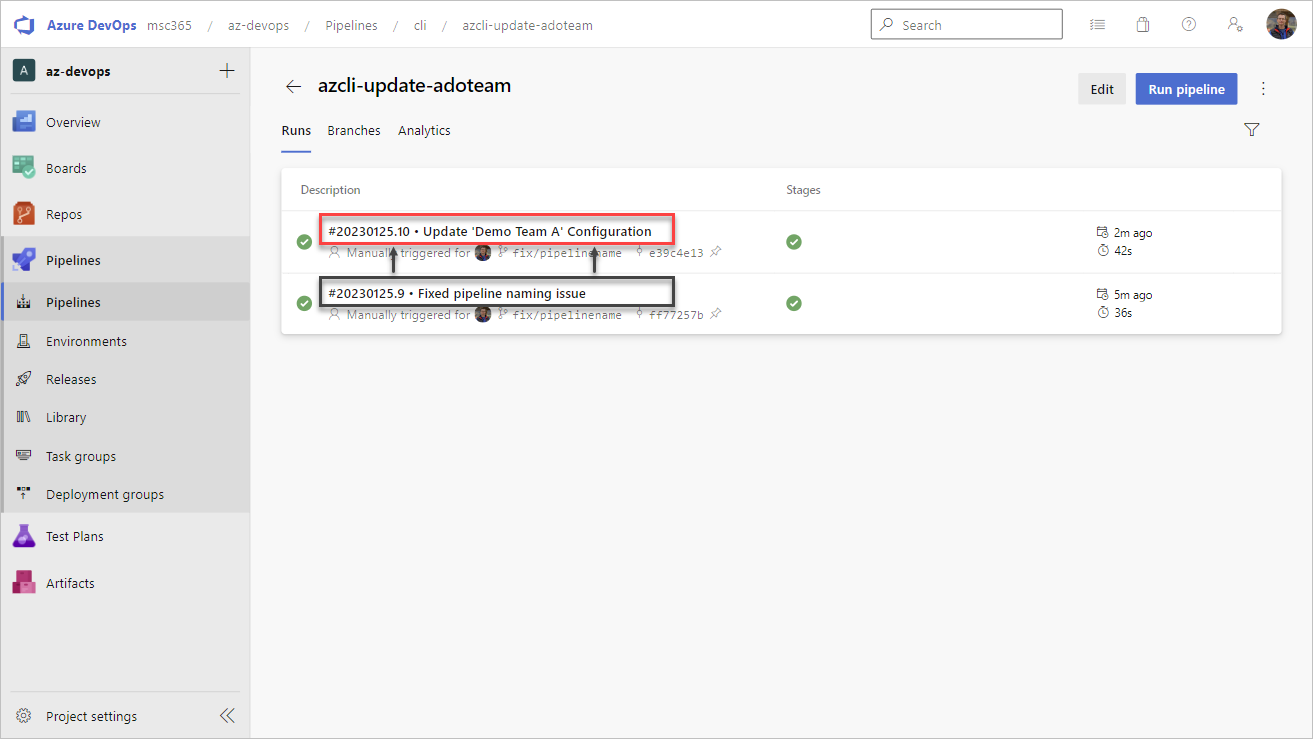
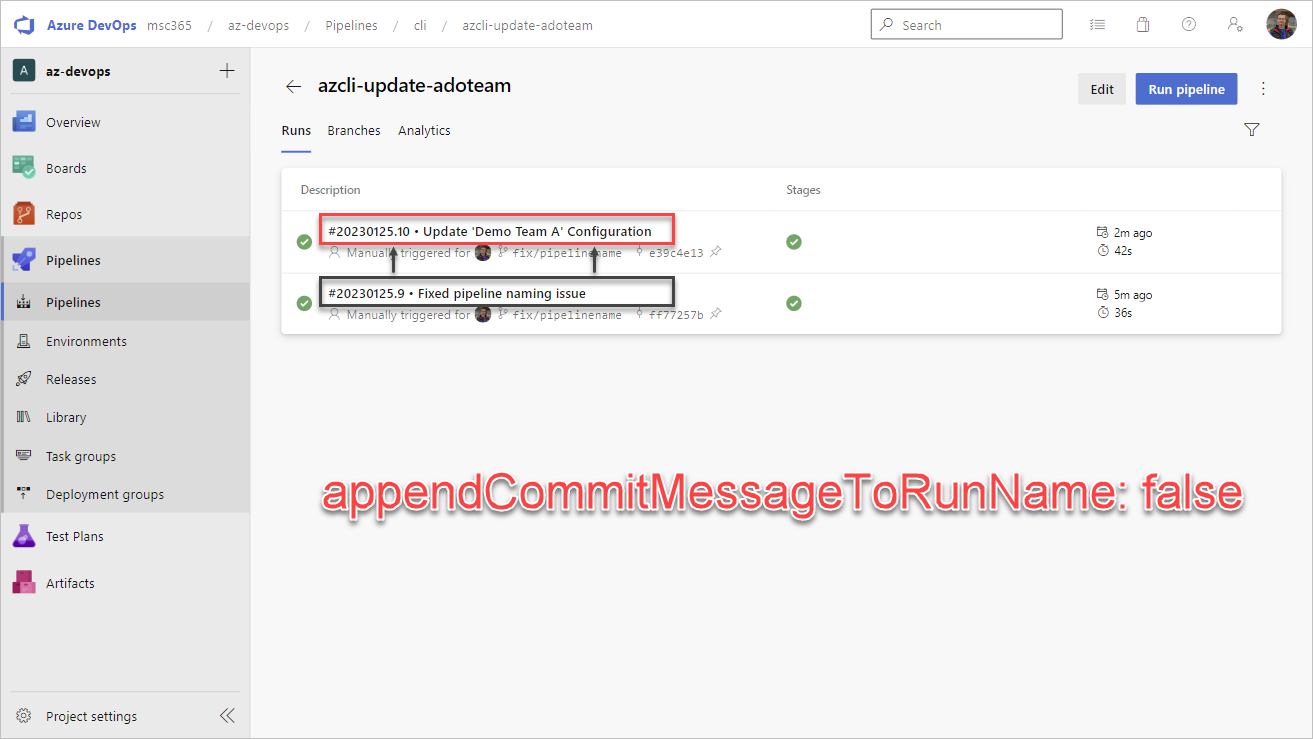
Improved content

Changed region(s): [[0.2498, 0.6225, 0.968, 0.7158]]

diff --git a/update-adoteam/README.md b/update-adoteam/README.md
@@ -125,7 +125,13 @@ stages:
         AZURE_DEVOPS_EXT_PAT: $(MSC365_PAT)
 ```
 
-> **Note**: Mention the `appendCommitMessageToRunName` YAML property, which I used to create a custum name for a pipeline. This property will disable showing the last commit message for a pipeline run.
+<br>
+
+> **Note**: Mention the `appendCommitMessageToRunName` YAML property, which I used to create a custum name for this pipeline. This property will [disable showing the last commit message for a pipeline run](https://learn.microsoft.com/en-us/azure/devops/release-notes/2022/sprint-209-update?tabs=yaml#disable-showing-the-last-commit-message-for-a-pipeline-run).
+
+In this scenario, I wanted a user-friendly description that makes it clear that the pipeline is part of an automation process and that the team settings are updated. The '_latest commit_' message would only confuse users when troubleshooting the process.
+
+<br>
 
 <a href="../assets/img/posts-az-devops-update-adoteam-pipeline.png" target="_blank"><img alt="settings-json" src="../assets/img/posts-az-devops-update-adoteam-pipeline.png" width="1024"/></a>  
 
